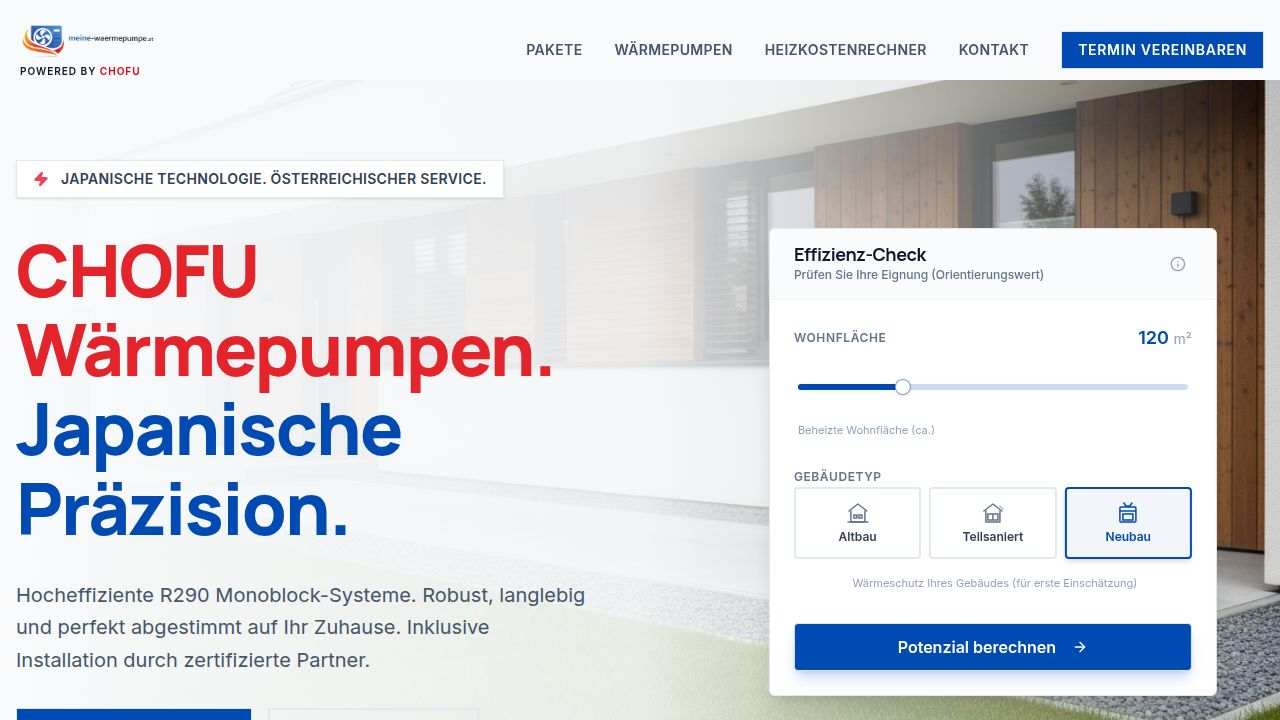
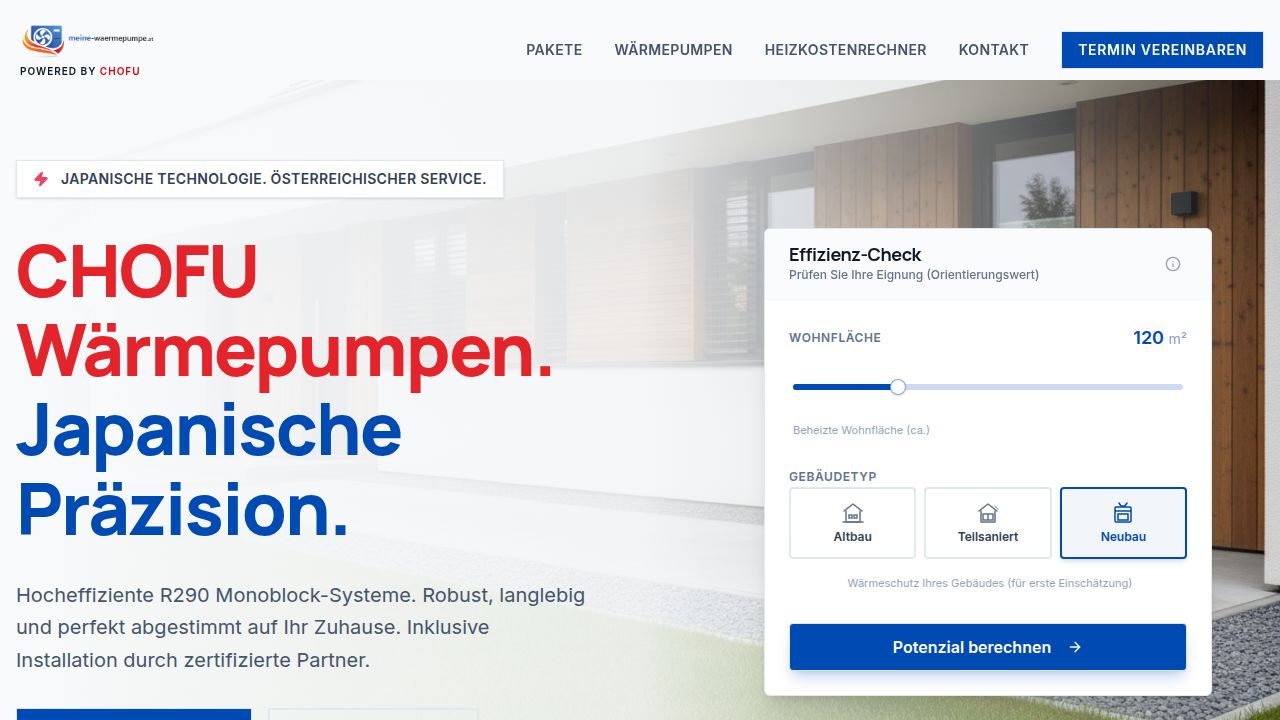
Add a premium CHOFU product image with a new layout
Adds `chofu-premium.jpg` and updates `ChofuHomepageTeaser.tsx` to display the image in a two-column layout on larger screens and a stacked layout on smaller screens.

Replit-Commit-Author: Agent
Replit-Commit-Session-Id: 831c8483-42e2-4a10-9d5a-72e9190daf65
Replit-Commit-Checkpoint-Type: full_checkpoint
Replit-Commit-Event-Id: df45ea50-f88b-4c50-9d93-179ba3093ad6
Replit-Commit-Screenshot-Url: https://storage.googleapis.com/screenshot-production-us-central1/d5bef52e-3ff3-45f0-8082-22a028fb348c/831c8483-42e2-4a10-9d5a-72e9190daf65/NQpBFs6
Replit-Helium-Checkpoint-Created: true

diff --git a/client/src/components/brand/ChofuHomepageTeaser.tsx b/client/src/components/brand/ChofuHomepageTeaser.tsx
@@ -11,6 +11,7 @@ import { Link } from "wouter";
 import { Button } from "@/components/ui/button";
 import { Card, CardContent } from "@/components/ui/card";
 import chofuData from "@/content/brand/chofu.de.json";
+import chofuPremiumImage from "@/assets/chofu-premium.jpg";
 
 // Map icon strings to components
 const IconMap: Record<string, React.ComponentType<any>> = {
@@ -31,19 +32,33 @@ export function ChofuHomepageTeaser() {
     <section className="py-24 bg-slate-50 border-y border-slate-200">
       <div className="container mx-auto px-4">
         
-        <div className="max-w-3xl mx-auto text-center mb-16">
-          <div className="inline-flex items-center gap-2 text-primary font-bold uppercase tracking-wider text-sm mb-4">
-            <div className="h-px w-8 bg-primary"></div>
-            <span>{chofuData.brand.name} Japan</span>
-            <div className="h-px w-8 bg-primary"></div>
+        <div className="grid lg:grid-cols-2 gap-12 lg:gap-16 items-center mb-16">
+          {/* Text Column */}
+          <div className="text-center lg:text-left">
+            <div className="inline-flex items-center gap-2 text-primary font-bold uppercase tracking-wider text-sm mb-4">
+              <div className="h-px w-8 bg-primary"></div>
+              <span>{chofuData.brand.name} Japan</span>
+              <div className="h-px w-8 bg-primary"></div>
+            </div>
+            <h2 className="text-3xl md:text-4xl font-heading font-extrabold text-slate-900 mb-6 leading-tight">
+              {homepage.title}
+            </h2>
+            <div className="space-y-4 text-lg text-slate-600 leading-relaxed">
+              {homepage.intro?.map((paragraph: string, idx: number) => (
+                <p key={idx}>{paragraph}</p>
+              ))}
+            </div>
           </div>
-          <h2 className="text-3xl md:text-4xl font-heading font-extrabold text-slate-900 mb-6 leading-tight">
-            {homepage.title}
-          </h2>
-          <div className="space-y-4 text-lg text-slate-600 leading-relaxed">
-            {homepage.intro?.map((paragraph: string, idx: number) => (
-              <p key={idx}>{paragraph}</p>
-            ))}
+          
+          {/* Image Column */}
+          <div className="mt-8 lg:mt-0">
+            <img 
+              src={chofuPremiumImage}
+              alt="CHOFU Wärmepumpe – Premium Wärmepumpentechnik Made in Japan"
+              className="w-full h-auto rounded-xl shadow-lg shadow-slate-900/10 object-contain"
+              loading="lazy"
+              data-testid="img-chofu-premium"
+            />
           </div>
         </div>
 
